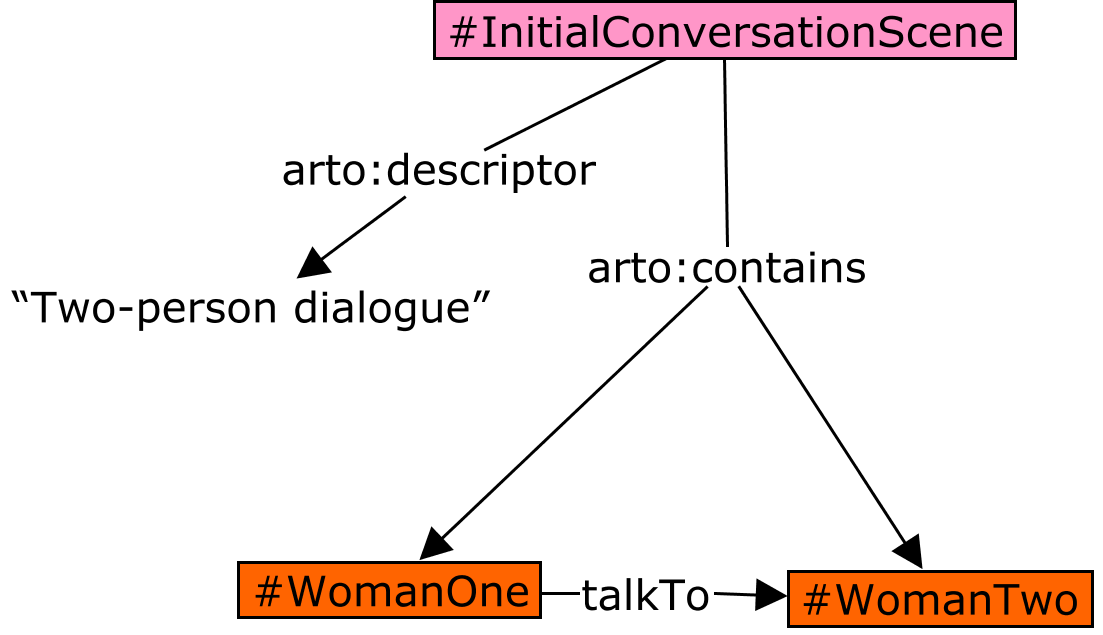
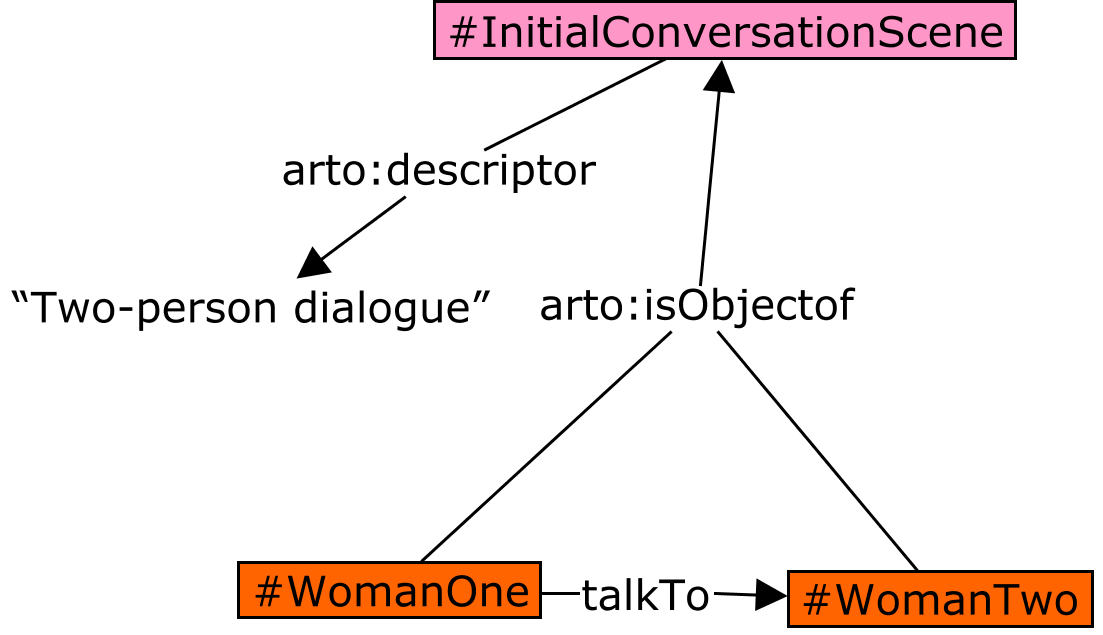
update examples

diff --git a/examples/README.md b/examples/README.md
@@ -75,14 +75,14 @@ This document demonstrates how various artworks can be represented using the ART
 </div>
 
 ``` turtle
-<< ex:WomanOne arto:relatedToScene ex:InitialConversationScene >> 
+<< ex:WomanOne arto:isObjectOf ex:InitialConversationScene >> 
     arto:state "Standing and conversing" ;
-    arto:talkTo << ex:WomanTwo arto:relatedToScene ex:InitialConversationScene >> ;
+    arto:talkTo << ex:WomanTwo arto:isObjectOf ex:InitialConversationScene >> ;
     arto:position "Right side of frame" .
 
-<< ex:WomanTwo arto:relatedToScene ex:InitialConversationScene >> 
+<< ex:WomanTwo arto:isObjectOf ex:InitialConversationScene >> 
     arto:state "Standing and conversing" ;
-    arto:talkTo << ex:WomanOne arto:relatedToScene ex:InitialConversationScene >> 
+    arto:talkTo << ex:WomanOne arto:isObjectOf ex:InitialConversationScene >> 
     arto:position "Left side of frame" .
 
 ```
@@ -94,18 +94,18 @@ This document demonstrates how various artworks can be represented using the ART
 
 ``` turtle
 
-<< ex:WomanOne arto:relatedToScene ex:ApproachScene >> 
+<< ex:WomanOne arto:isObjectOf ex:ApproachScene >> 
     arto:state "Surprised and turning body" ;
     arto:position "Center-right of frame" .
 
-<< ex:WomanTwo arto:relatedToScene ex:ApproachScene >> 
+<< ex:WomanTwo arto:isObjectOf ex:ApproachScene >> 
     arto:state "Still engaged in conversation" ;
     arto:position "Center of frame" .
 
-<< ex:WomanThree arto:relatedToScene ex:ApproachScene >> 
+<< ex:WomanThree arto:isObjectOf ex:ApproachScene >> 
     arto:state "Entering" ;
     arto:position "Far left of frame, moving toward center" ;
-    arto:approach << ex:WomanOne arto:relatedToScene ex:ApproachScene >> .
+    arto:approach << ex:WomanOne arto:isObjectOf ex:ApproachScene >> .
 
 ```
 
@@ -116,19 +116,19 @@ This document demonstrates how various artworks can be represented using the ART
 ``` turtle
 
 
-<< ex:WomanOne arto:relatedToScene ex:GreetingMomentScene >> 
+<< ex:WomanOne arto:isObjectOf ex:GreetingMomentScene >> 
     arto:state "Hugging" ;
     arto:position "Right of frame"  .
 
-<< ex:WomanTwo arto:relatedToScene ex:GreetingMomentScene >> 
+<< ex:WomanTwo arto:isObjectOf ex:GreetingMomentScene >> 
     arto:state "Observing" ;
     arto:position "Center of frame" .
 
-<< ex:WomanThree arto:relatedToScene ex:GreetingMomentScene >> 
+<< ex:WomanThree arto:isObjectOf ex:GreetingMomentScene >> 
     arto:state "Greeting" ;
     arto:position "Center-left of frame" ;
-    arto:greets << ex:WomanOne arto:relatedToScene ex:GreetingMomentScene >> ;
-    arto:ignores  << ex:WomanTwo arto:relatedToScene ex:GreetingMomentScene >> .
+    arto:greets << ex:WomanOne arto:isObjectOf ex:GreetingMomentScene >> ;
+    arto:ignores  << ex:WomanTwo arto:isObjectOf ex:GreetingMomentScene >> .
 
 
 ```
@@ -139,19 +139,19 @@ This document demonstrates how various artworks can be represented using the ART
 
 ``` turtle
 
-<< ex:WomanOne arto:relatedToScene ex:WhisperingScene >> 
+<< ex:WomanOne arto:isObjectOf ex:WhisperingScene >> 
     arto:state "Listening closely" ;
     arto:position "Center of frame" .
 
-<< ex:WomanTwo arto:relatedToScene ex:WhisperingScene >> 
+<< ex:WomanTwo arto:isObjectOf ex:WhisperingScene >> 
     arto:state "Feeling excluded" ;
     arto:position "Center of frame, slightly apart" .
 
 
-<< ex:WomanThree arto:relatedToScene ex:WhisperingScene >> 
+<< ex:WomanThree arto:isObjectOf ex:WhisperingScene >> 
     arto:state "Whispering confidentially" ;
     arto:position "Center-left of frame" ;
-    arto:whisper << ex:WomanOne arto:relatedToScene ex:WhisperingScene >> .
+    arto:whisper << ex:WomanOne arto:isObjectOf ex:WhisperingScene >> .
 
 ```
 
@@ -161,15 +161,15 @@ This document demonstrates how various artworks can be represented using the ART
 
 ``` turtle
 
-<< ex:WomanOne arto:relatedToScene ex:IntroductionScene >> 
+<< ex:WomanOne arto:isObjectOf ex:IntroductionScene >> 
     arto:state "Talking and awkwardness" ;
     arto:position "Right side of frame" .
 
-<< ex:WomanTwo arto:relatedToScene ex:IntroductionScene >> 
+<< ex:WomanTwo arto:isObjectOf ex:IntroductionScene >> 
     arto:state "Acknowledging introduction" ;
     arto:position "Center of frame"  .
 
-<< ex:WomanThree arto:relatedToScene ex:IntroductionScene >> 
+<< ex:WomanThree arto:isObjectOf ex:IntroductionScene >> 
     arto:state "Being introduced" ;
     arto:position "Left side of frame" .
 

diff --git a/ARTOVersioning.md b/ARTOVersioning.md
@@ -3,12 +3,7 @@
 ### ARTO CREATION
 *Version 0.1 | Date: 2024-02-05*
 
-1. Description Model ... 
-2. Contextual Model ...
-3. RDF-Star included to simplify ... 
-4. **ARTO's unique contribution compared to existing ontologies**
-
-
+The initial version of ARTO introduced the *Artwork Contextual Model* and *Artwork Descriptive Model*. The *Artwork Contextual Model* consist of five main classes (Artwork, Event, Location, Time, Agent), capturing essential background information including artwork metadata, historical events with time and location and related agent relationships. The Descriptive Model established a four-level hierarchical framework that represents artwork content from basic visual elements (colours with RGB/HSV values, lines, composition) to objects (with properties like size, material, state) to scenes (meaningful groupings of objects) to high-level connotations (symbolism, emotion, theme). It's also incorporated RDF-star to simplify complex relationship representation, particularly valuable for modelling interconnected events, people, locations, and times. There are quantitative metrics for artistic elements that can support ARTO for artwork analysis. ARTO's focus is its unified framework designed for comprehensive artwork representation rather than mere cataloguing, offering machine-understandable representations that support artwork captioning, analysis, and information retrieval.
 
 
 ### Theoretical foundation of ARTO - The Panofsky iconographic levels
